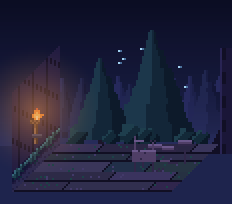
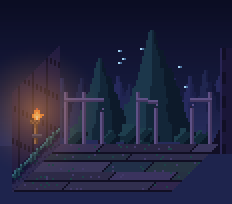
Balcony forest: fence restored, wooden objects on floor removed
Claude-Session: https://claude.ai/code/session_01FPZSaKiVNU2zED737yZX4w

diff --git a/tools/render_balcony_forest.py b/tools/render_balcony_forest.py
@@ -49,7 +49,19 @@ def main():
         put(sx, sy, (170, 220, 230)); put(sx + 1, sy, (80, 120, 150))
     # 뒤쪽 울타리: 부러진 나무 기둥(높이 제각각, 일부는 사라짐), 기울어진 가로대
     bx0, bx1 = int(X0 + SK * D), int(X0 + SK * D + W)
-    # (울타리는 그리지 않는다: 바닥 끝이 바로 숲으로 열려 있음)
+    posts = [x for x in range(bx0 + 2, bx1, 9)]
+    for i, x in enumerate(posts):
+        if i in (3, 6): continue                                        # 빠진 기둥
+        h = RAIL if i not in (2, 5, 7) else RAIL - rng.randrange(7, 14)    # 부러진 기둥은 짧음
+        for y in range(int(by - h), int(by)):
+            for k in range(2): put(x + k, y, WOODL if k == 0 else WOOD)
+        if h < RAIL:
+            put(x, int(by - h) - 1, WOODD); put(x + 1, int(by - h) - 2, WOODL)     # 부러진 끝
+    for a, b2 in ((0, 2), (4, 5), (7, 8)):                              # 남은 가로대(끊겨 있음, 기울어짐)
+        xa, xb = posts[a], posts[b2]
+        for x in range(xa, xb + 2):
+            y = int(by - RAIL + 3 + (x - xa) * (1 if a == 4 else 0) // 6)
+            put(x, y, WOODL); put(x, y + 1, WOOD)
     # 바닥: 썩은 널빤지(가로, 틈과 구멍) + 이끼·낙엽
     rows, d0 = [], 0.0
     while d0 < D: rows.append((d0, d0 + fr.uniform(6, 12))); d0 = rows[-1][1]
@@ -93,7 +105,7 @@ def main():
     # 가구: 부서진 나무 의자·탁자(오른쪽 끝, 의자가 앞)
     def put_sprite(name, x, d):
         s = lib[name]; img.alpha_composite(s, (int(X0 + x + SK * d - s.width / 2), int(Y0 - SS * d - s.height)))
-    put_sprite('broken_table', 66, 26); put_sprite('broken_chair', 58, 18)
+    pass   # 바닥 위 나무 물건(부서진 의자·탁자·널빤지)은 두지 않는다
     wd, wz = 22, 22                                                   # 벽 횃불: 왼쪽 벽(깊이 22칸), 바닥에서 22칸 위
     tspr = lib['torch_wall']; img.alpha_composite(tspr, (int(X0 + SK * wd - 4), int(Y0 - SS * wd - wz - 14)))
     tx, ty = int(X0 + SK * wd + 1), int(Y0 - SS * wd - wz - 8)          # 횃불 불꽃 위치
